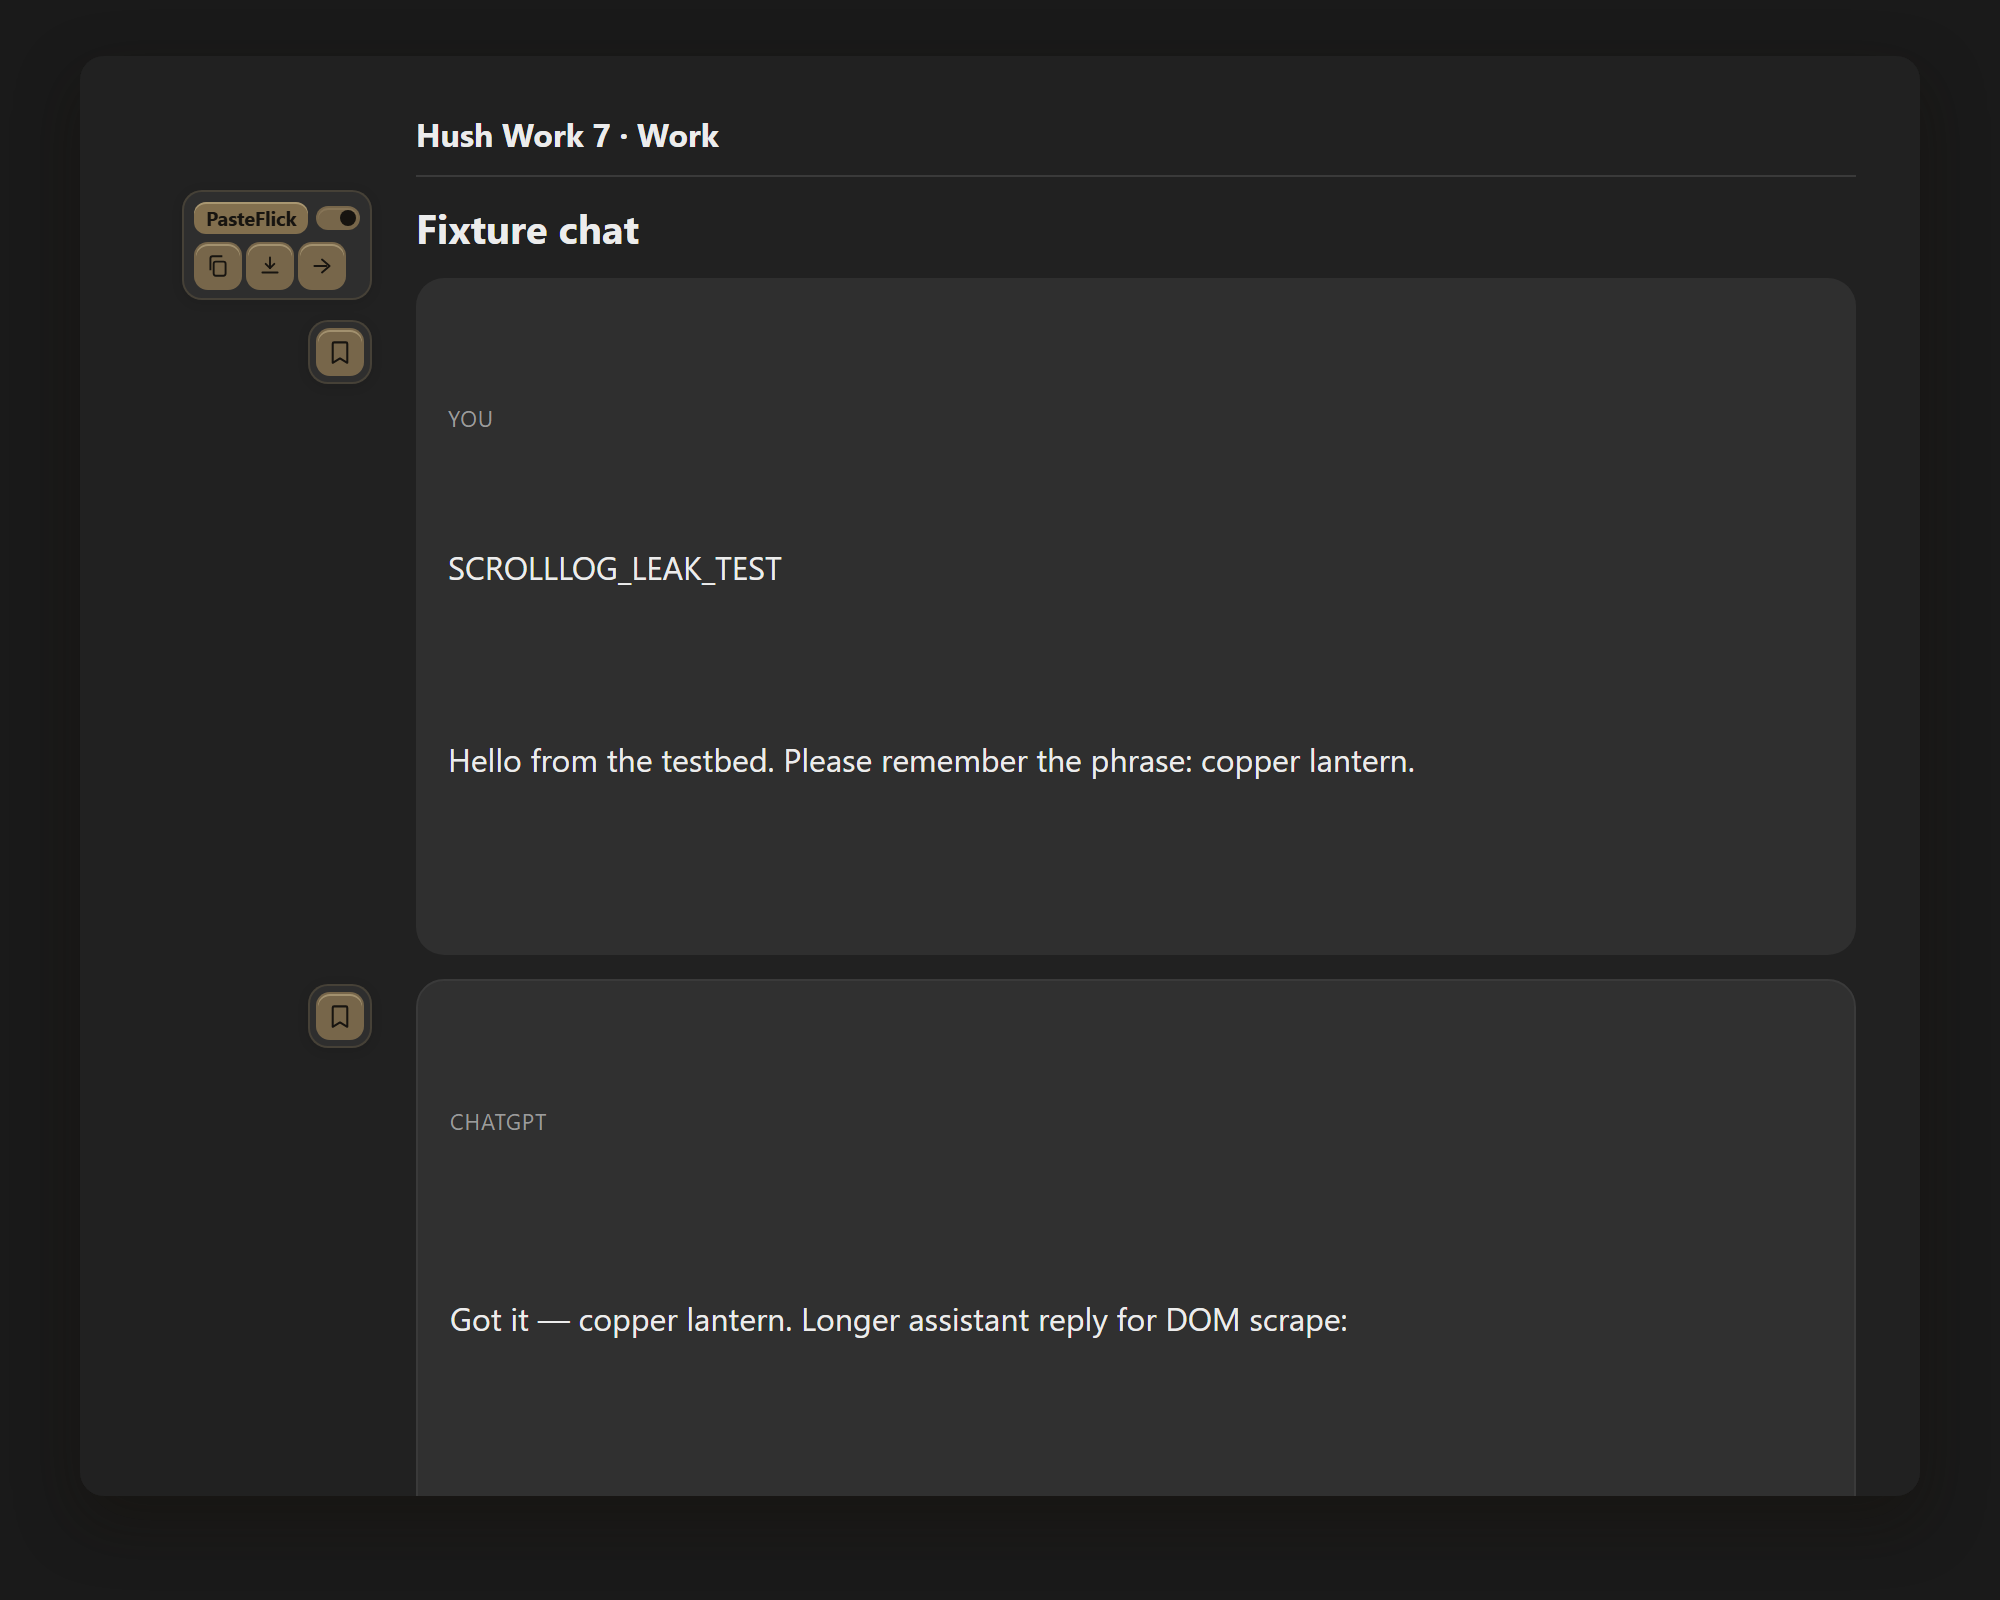
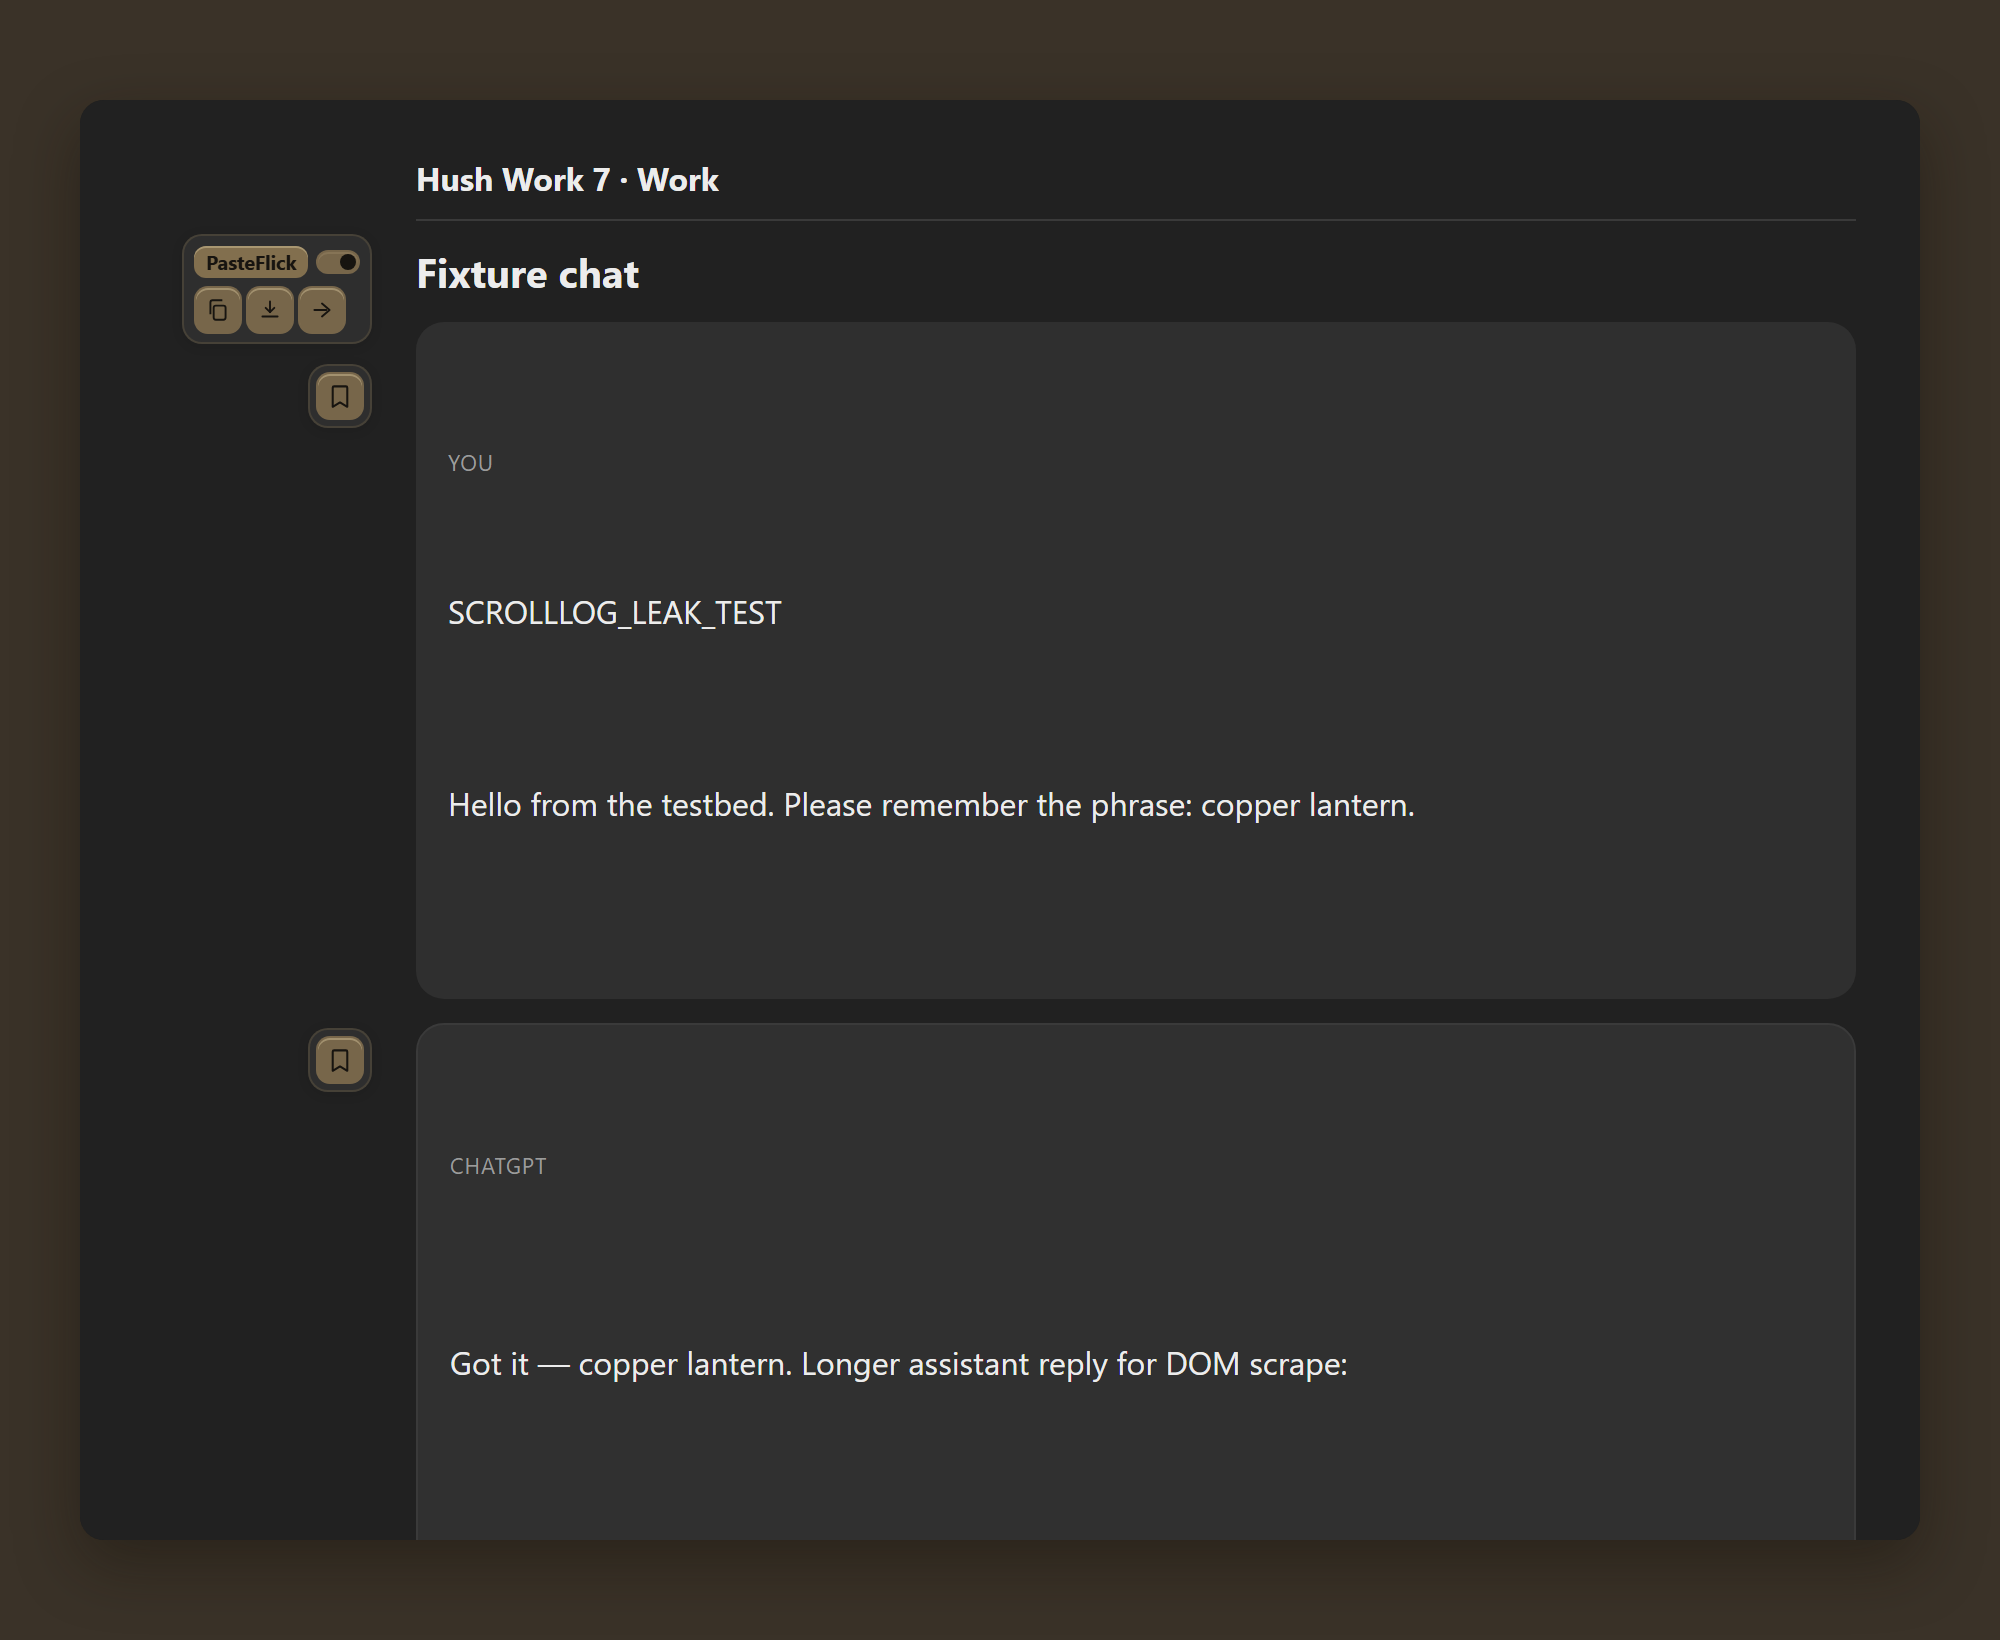
Put the chat photo on the same wood as the chip and the windows so the set reads as one.

diff --git a/readme/capture_shots.py b/readme/capture_shots.py
@@ -122,12 +122,19 @@ iframe{
             else:
                 inner, h = "/mock-chatgpt.html?shot=1", 720
             w = 316 if "chat" not in name else 920
-            page_bg = "#3a3228" if "chat" not in name else "#1a1a1a"
+            page_bg = "#3a3228"
             frame_bg = "#f7f7f5" if "chat" not in name else "#212121"
             html = f"""<!doctype html>
 <html><head><meta charset="utf-8"><style>
-html,body{{margin:0;background:{page_bg};}}
-.stage{{padding:28px;display:flex;justify-content:center;}}
+html,body{{margin:0;height:100%;background:{page_bg};}}
+.stage{{
+  min-height:100%;
+  box-sizing:border-box;
+  display:flex;
+  align-items:center;
+  justify-content:center;
+  padding:40px 36px;
+}}
 iframe{{border:0;width:{w}px;height:{h}px;border-radius:12px;overflow:hidden;
 box-shadow:0 12px 32px rgba(20,14,8,.4);background:{frame_bg};}}
 </style></head>
@@ -225,7 +232,7 @@ def main() -> None:
         shot(f"{base}/shot-pair.html", OUT / "windows.png", 760, 740, "FF3A3228")
         shot(f"{base}/shot-popup.html", OUT / "popup.png", 380, 480, "FF3A3228")
         shot(f"{base}/shot-settings.html", OUT / "settings.png", 380, 760, "FF3A3228")
-        shot(f"{base}/shot-chat.html", OUT / "chat.png", 1000, 800, "FF1A1A1A")
+        shot(f"{base}/shot-chat.html", OUT / "chat.png", 1000, 820, "FF3A3228")
     finally:
         httpd.shutdown()
     print("ok")
